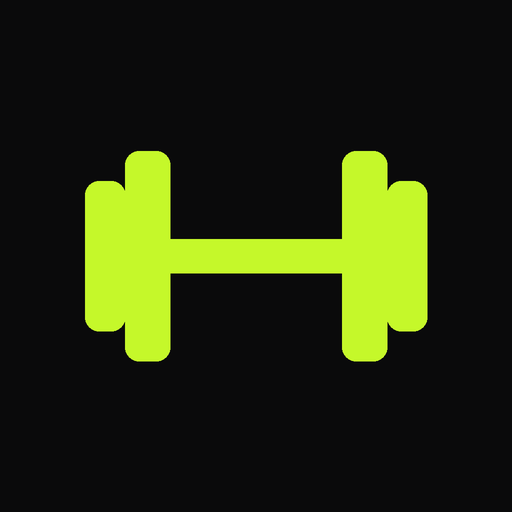
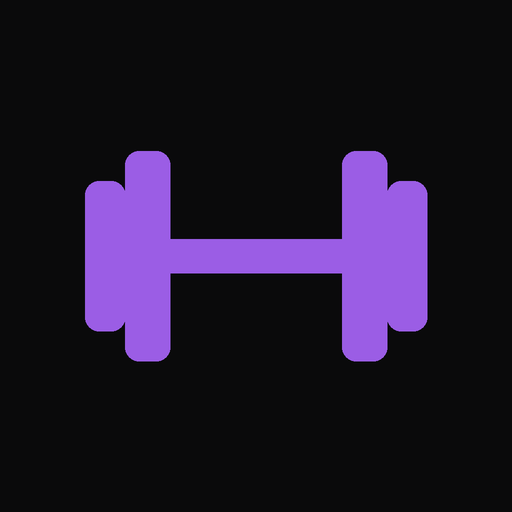
Change accent color to purple (Anytime-style)

Changed region(s): [[0.1562, 0.2812, 0.8438, 0.7188]]

diff --git a/style.css b/style.css
@@ -7,8 +7,9 @@
   --btn: #2a2d33;
   --text: #f3f4f6;
   --muted: #9ca3af;
-  --acc: #c5f82a;
-  --acc-ink: #0a0a0b;
+  --acc: #7b3fc6;       /* fills: buttons, badges, tags (white text on top) */
+  --acc-ink: #ffffff;
+  --acc-text: #b98cff;  /* purple text / lines on the black background */
   --light: #5cb8ff;
   --warn: #ffb020;
   --danger: #ff5a5a;
@@ -34,7 +35,7 @@ h2 { font-size: 20px; margin: 8px 0 12px; }
 .small { font-size: 13px; }
 
 /* ---------- top header ---------- */
-.brand { font-size: 13px; font-weight: 800; letter-spacing: .18em; color: var(--acc); }
+.brand { font-size: 13px; font-weight: 800; letter-spacing: .18em; color: var(--acc-text); }
 .date { font-size: 22px; font-weight: 800; margin: 2px 0 12px; }
 .editing { display: flex; align-items: center; justify-content: space-between; gap: 8px; background: #2a2210; color: var(--warn); border-radius: 12px; padding: 8px 12px; margin-bottom: 12px; font-size: 14px; }
 .editing button { background: var(--btn); color: var(--text); border-radius: 10px; padding: 8px 12px; font-size: 14px; white-space: nowrap; }
@@ -53,13 +54,13 @@ h2 { font-size: 20px; margin: 8px 0 12px; }
 /* ---------- exercise cards ---------- */
 #cards { margin-top: 16px; display: flex; flex-direction: column; gap: 10px; }
 .card { background: var(--card); border: 1px solid var(--line); border-radius: 16px; overflow: hidden; scroll-margin-top: 12px; }
-.card.done { border-color: #4c6a12; }
+.card.done { border-color: #4a2a78; }
 .card-head { display: flex; align-items: center; gap: 12px; width: 100%; padding: 12px; text-align: left; min-height: 64px; }
 .badge { flex: 0 0 34px; height: 34px; border-radius: 50%; display: grid; place-items: center; background: var(--btn); color: var(--muted); font-weight: 800; font-size: 15px; }
 .card.done .badge { background: var(--acc); color: var(--acc-ink); font-size: 20px; }
 .ttl { flex: 1; min-width: 0; }
 .ttl .name { font-size: 18px; font-weight: 800; overflow-wrap: anywhere; }
-.card.done .ttl .name { color: var(--acc); }
+.card.done .ttl .name { color: var(--acc-text); }
 .ttl .sub { font-size: 13px; color: var(--muted); white-space: nowrap; overflow: hidden; text-overflow: ellipsis; }
 .chev { flex: 0 0 20px; color: var(--muted); transition: transform .15s; }
 .card.open .chev { transform: rotate(180deg); }
@@ -91,7 +92,7 @@ h2 { font-size: 20px; margin: 8px 0 12px; }
 .stp-c button { height: 48px; border-radius: 12px; background: var(--btn); font-size: 26px; font-weight: 600; line-height: 1; }
 .stp-c button:active { background: #3a3e46; }
 .stp-c input { height: 48px; width: 100%; min-width: 0; text-align: center; font-size: 24px; font-weight: 800; background: var(--field); border: 1px solid var(--line); border-radius: 12px; padding: 0; font-variant-numeric: tabular-nums; }
-.stp-c input:focus { outline: none; border-color: var(--acc); }
+.stp-c input:focus { outline: none; border-color: var(--acc-text); }
 .hint { font-size: 13px; color: var(--muted); margin-top: 6px; }
 .addrow { display: grid; grid-template-columns: 1fr; gap: 8px; margin-top: 4px; }
 .addrow.two { grid-template-columns: 1fr 1fr; }
@@ -114,12 +115,12 @@ h2 { font-size: 20px; margin: 8px 0 12px; }
 .tag.light { background: var(--light); color: #04121f; }
 .tag.none { background: var(--btn); color: var(--muted); }
 .tag.warn { background: #3a2c0c; color: var(--warn); }
-.back { height: 44px; padding: 0 12px 0 4px; color: var(--acc); font-weight: 700; font-size: 16px; }
+.back { height: 44px; padding: 0 12px 0 4px; color: var(--acc-text); font-weight: 700; font-size: 16px; }
 .block { background: var(--card); border-radius: 14px; padding: 12px 14px; margin-bottom: 8px; }
 .block .bh { display: flex; justify-content: space-between; align-items: center; gap: 8px; margin-bottom: 4px; }
 .block .bh .t { font-weight: 800; font-size: 17px; }
 .block .ln { font-size: 15px; font-variant-numeric: tabular-nums; }
-.linkbtn { color: var(--acc); font-weight: 700; font-size: 14px; padding: 6px 0; }
+.linkbtn { color: var(--acc-text); font-weight: 700; font-size: 14px; padding: 6px 0; }
 .empty { text-align: center; color: var(--muted); padding: 40px 0; }
 
 /* ---------- growth ---------- */
@@ -134,13 +135,13 @@ h2 { font-size: 20px; margin: 8px 0 12px; }
 .gstats { display: grid; grid-template-columns: repeat(3, 1fr); gap: 8px; margin: 10px 0; }
 .gstats .stat .v { font-size: 18px; }
 .note { font-size: 13px; color: var(--light); margin: 8px 2px; }
-.up { color: var(--acc); }
+.up { color: var(--acc-text); }
 .down { color: var(--danger); }
 
 /* ---------- menu editor ---------- */
 .mitem { display: flex; align-items: center; gap: 6px; background: var(--card); border-radius: 14px; padding: 6px 6px 6px 0; min-height: 60px; }
 .mitem.hid { opacity: .5; }
-.mitem.dragging { opacity: .9; outline: 2px solid var(--acc); position: relative; z-index: 2; }
+.mitem.dragging { opacity: .9; outline: 2px solid var(--acc-text); position: relative; z-index: 2; }
 .handle { flex: 0 0 40px; height: 48px; display: grid; place-items: center; color: var(--muted); font-size: 22px; touch-action: none; cursor: grab; }
 .mitem .main { flex: 1; min-width: 0; text-align: left; padding: 4px 0; }
 .mitem .t { font-weight: 700; font-size: 16px; overflow-wrap: anywhere; }
@@ -171,7 +172,7 @@ h2 { font-size: 20px; margin: 8px 0 12px; }
 #nav { position: fixed; left: 0; right: 0; bottom: 0; z-index: 40; display: grid; grid-template-columns: repeat(4, 1fr); background: rgba(14, 14, 16, .96); border-top: 1px solid var(--line); padding-bottom: var(--safe-b); backdrop-filter: blur(8px); -webkit-backdrop-filter: blur(8px); }
 #nav button { height: var(--nav-h); display: flex; flex-direction: column; align-items: center; justify-content: center; gap: 2px; color: var(--muted); font-size: 12px; font-weight: 700; }
 #nav button svg { width: 26px; height: 26px; fill: currentColor; }
-#nav button.on { color: var(--acc); }
+#nav button.on { color: var(--acc-text); }
 #toast { position: fixed; left: 16px; right: 16px; bottom: calc(var(--nav-h) + var(--safe-b) + 12px); z-index: 60; max-width: 528px; margin: 0 auto; display: flex; align-items: center; justify-content: space-between; gap: 12px; background: #2b2e35; color: var(--text); border-radius: 14px; padding: 12px 14px; font-size: 15px; font-weight: 600; box-shadow: 0 6px 24px rgba(0,0,0,.5); opacity: 0; transform: translateY(8px); pointer-events: none; transition: opacity .15s, transform .15s; }
 #toast.show { opacity: 1; transform: none; pointer-events: auto; }
-#toast button { color: var(--acc); font-weight: 800; padding: 6px 4px; white-space: nowrap; }
+#toast button { color: var(--acc-text); font-weight: 800; padding: 6px 4px; white-space: nowrap; }

diff --git a/app.js b/app.js
@@ -578,8 +578,8 @@
     const ticks = lo === hi ? [lo] : [lo, round((lo + hi) / 2), hi];
     let g = ticks.map(v => `<line x1="${pl}" x2="${W - pr}" y1="${y(v)}" y2="${y(v)}" stroke="#2b2d33"/><text x="${pl - 6}" y="${y(v) + 4}" text-anchor="end" font-size="11" fill="#9ca3af">${fmt(v)}</text>`).join('');
     const path = pts.map((p, i) => `${i ? 'L' : 'M'}${x(i).toFixed(1)},${y(p.v).toFixed(1)}`).join(' ');
-    g += `<path d="${path}" fill="none" stroke="#c5f82a" stroke-width="2.5" stroke-linejoin="round" stroke-linecap="round"/>`;
-    g += pts.map((p, i) => `<circle cx="${x(i)}" cy="${y(p.v)}" r="${pts.length > 30 ? 2 : 3.5}" fill="#c5f82a"/>`).join('');
+    g += `<path d="${path}" fill="none" stroke="#b98cff" stroke-width="2.5" stroke-linejoin="round" stroke-linecap="round"/>`;
+    g += pts.map((p, i) => `<circle cx="${x(i)}" cy="${y(p.v)}" r="${pts.length > 30 ? 2 : 3.5}" fill="#b98cff"/>`).join('');
     const last = pts[pts.length - 1];
     g += `<text x="${Math.min(x(pts.length - 1), W - pr)}" y="${y(last.v) - 8}" text-anchor="end" font-size="12" font-weight="700" fill="#f3f4f6">${fmt(last.v)}${unit}</text>`;
     g += `<text x="${pl}" y="${H - 8}" font-size="11" fill="#9ca3af">${md(pts[0].date)}</text>`;

diff --git a/sw.js b/sw.js
@@ -1,6 +1,6 @@
 // Offline support: serve the app shell from cache, refresh the cache in the background.
 // Bump VERSION whenever app files change so phones pick up the new version.
-const VERSION = 'tlog-v1';
+const VERSION = 'tlog-v2';
 const FILES = ['./', 'index.html', 'style.css', 'app.js', 'manifest.webmanifest',
   'icons/icon-192.png', 'icons/icon-512.png', 'icons/apple-touch-icon.png'];
 
